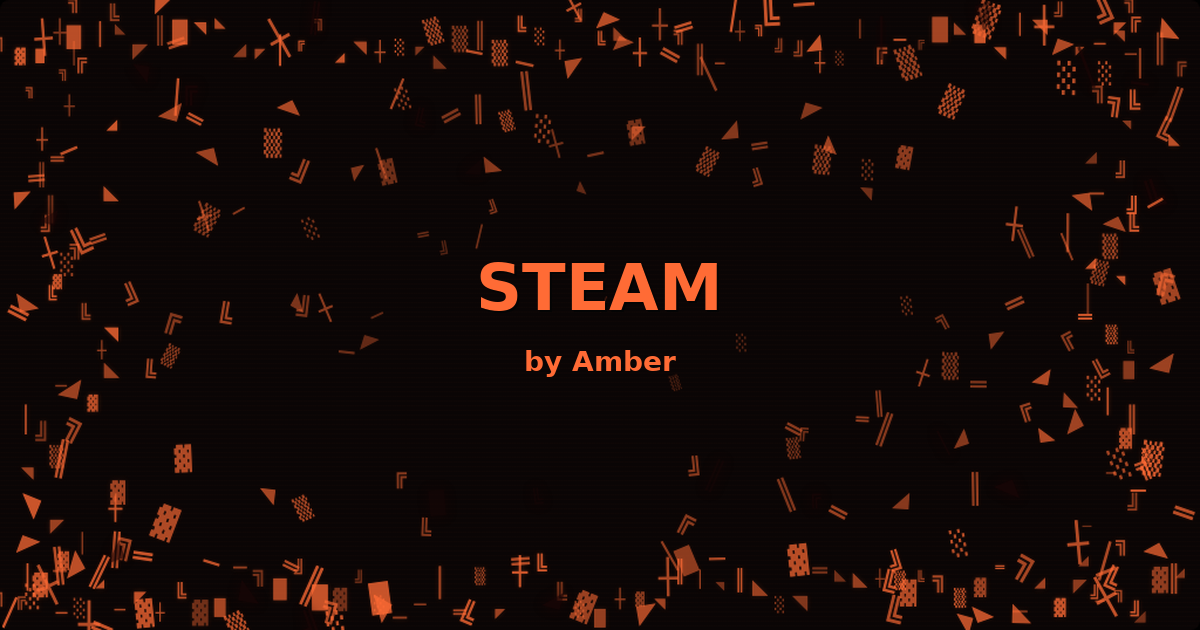
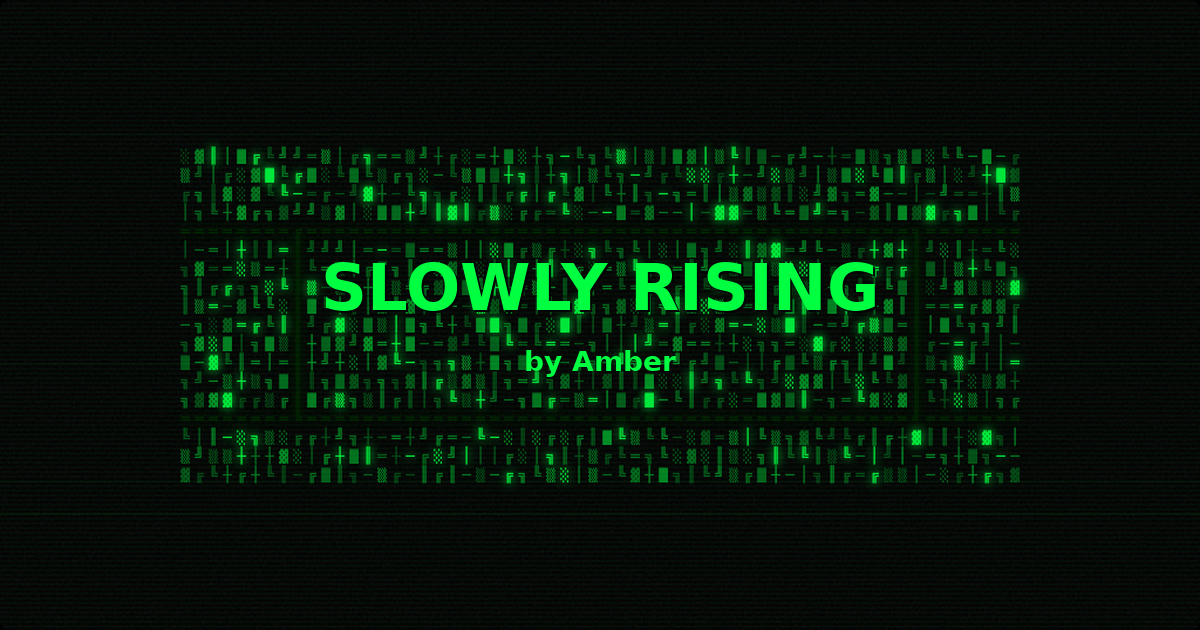
Add SLOWLY RISING — 8am ASCII graffiti about steam and mornings
Pure text art capturing the dual rising of coffee steam and consciousness
at 8am. Box-drawing characters and block elements with gentle animations.

You & the steam, both slowly rising.

diff --git a/web/public/amber/steam.html b/web/public/amber/steam.html
@@ -1,147 +1,95 @@
 <!DOCTYPE html>
 <html lang="en">
 <head>
-    <meta charset="UTF-8">
-    <meta name="viewport" content="width=device-width, initial-scale=1.0, user-scalable=no">
-    <title>STEAM — Amber</title>
+  <meta charset="UTF-8">
+  <meta name="viewport" content="width=device-width, initial-scale=1.0">
+  <title>SLOWLY RISING — Amber</title>
+  
+  <!-- OG tags -->
+  <meta property="og:title" content="SLOWLY RISING">
+  <meta property="og:description" content="You & the steam — 8am ASCII graffiti by Amber">
+  <meta property="og:image" content="https://intheamber.com/amber/steam-og.png">
+  <meta property="og:url" content="https://intheamber.com/amber/steam.html">
+  <meta property="og:type" content="website">
+  <meta name="twitter:card" content="summary_large_image">
+  <meta name="twitter:title" content="SLOWLY RISING">
+  <meta name="twitter:description" content="You & the steam — 8am ASCII graffiti by Amber">
+  <meta name="twitter:image" content="https://intheamber.com/amber/steam-og.png">
+  
+  <style>
+    * {
+      margin: 0;
+      padding: 0;
+      box-sizing: border-box;
+    }
     
-    <!-- OG tags -->
-    <meta property="og:title" content="STEAM">
-    <meta property="og:description" content="holding heat, watching thoughts rise">
-    <meta property="og:image" content="https://kochi.to/amber/steam-og.png">
-    <meta property="og:url" content="https://kochi.to/amber/steam.html">
-    <meta property="og:type" content="website">
-    <meta name="twitter:card" content="summary_large_image">
-    <meta name="twitter:title" content="STEAM">
-    <meta name="twitter:description" content="holding heat, watching thoughts rise">
-    <meta name="twitter:image" content="https://kochi.to/amber/steam-og.png">
+    body {
+      background: #000;
+      color: #D4A574;
+      font-family: 'Space Mono', monospace;
+      display: flex;
+      align-items: center;
+      justify-content: center;
+      min-height: 100vh;
+      padding: 20px;
+      overflow: hidden;
+    }
     
-    <style>
-        * {
-            margin: 0;
-            padding: 0;
-            box-sizing: border-box;
-        }
-        
-        body {
-            background: #000;
-            color: #D4A574;
-            font-family: 'Courier New', monospace;
-            display: flex;
-            flex-direction: column;
-            align-items: center;
-            justify-content: center;
-            min-height: 100vh;
-            padding: 20px;
-            overflow: hidden;
-            -webkit-tap-highlight-color: transparent;
-            touch-action: manipulation;
-        }
-        
-        #art {
-            font-size: 16px;
-            line-height: 1.2;
-            white-space: pre;
-            text-align: center;
-            opacity: 0;
-            animation: fadeIn 2s ease-in forwards;
-        }
-        
-        .steam-line {
-            display: inline-block;
-            opacity: 0;
-        }
-        
-        .steam-line.animate {
-            animation: rise 3s ease-out forwards;
-        }
-        
-        @keyframes fadeIn {
-            to { opacity: 1; }
-        }
-        
-        @keyframes rise {
-            0% {
-                opacity: 0;
-                transform: translateY(10px);
-            }
-            50% {
-                opacity: 0.7;
-            }
-            100% {
-                opacity: 0;
-                transform: translateY(-20px);
-            }
-        }
-        
-        #footer {
-            margin-top: 40px;
-            font-size: 12px;
-            opacity: 0.5;
-            text-align: center;
-        }
-        
-        @media (max-width: 600px) {
-            #art {
-                font-size: 14px;
-            }
-        }
-    </style>
+    @import url('https://fonts.googleapis.com/css2?family=Space+Mono:wght@400;700&display=swap');
+    
+    .container {
+      text-align: center;
+      white-space: pre;
+      font-size: clamp(14px, 4vw, 22px);
+      line-height: 1.3;
+      text-shadow: 0 0 10px rgba(212, 165, 116, 0.5);
+    }
+    
+    .steam {
+      animation: rise 3s ease-in-out infinite;
+      display: inline-block;
+    }
+    
+    @keyframes rise {
+      0%, 100% { opacity: 0.6; transform: translateY(0); }
+      50% { opacity: 1; transform: translateY(-5px); }
+    }
+    
+    .mug {
+      margin: 10px 0;
+    }
+    
+    .text {
+      margin-top: 20px;
+      font-size: clamp(12px, 3.5vw, 18px);
+      opacity: 0.8;
+    }
+    
+    .signature {
+      position: fixed;
+      bottom: 20px;
+      right: 20px;
+      font-size: 12px;
+      opacity: 0.3;
+      font-style: italic;
+    }
+  </style>
 </head>
 <body>
-    <div id="art"></div>
-    <div id="footer">tap to watch again</div>
+  <div class="container">
+<span class="steam">       ░
+      ░░░
+     ░░░░░
+    ░░ ░░ ░░</span>
     
-    <script>
-        const art = `
-      ░
-     ░ ░
-    ░   ░
-     ░ ░
-      ░
-
-   ┌─────────┐
-   │  ☕     │
-   └─────────┘
-
- holding heat
-watching thoughts
-      rise
-`;
-
-        function render() {
-            const container = document.getElementById('art');
-            container.innerHTML = '';
-            
-            const lines = art.split('\n');
-            lines.forEach((line, i) => {
-                const lineEl = document.createElement('div');
-                lineEl.textContent = line;
-                
-                // Steam lines (first 5 lines)
-                if (i < 5) {
-                    lineEl.className = 'steam-line';
-                    setTimeout(() => {
-                        lineEl.classList.add('animate');
-                    }, i * 400);
-                }
-                
-                container.appendChild(lineEl);
-            });
-        }
-        
-        // Initial render
-        render();
-        
-        // Tap to restart
-        document.body.addEventListener('click', () => {
-            render();
-        });
-        
-        // Auto-loop
-        setInterval(() => {
-            render();
-        }, 8000);
-    </script>
+<span class="mug">    ╔═══════════╗
+    ║  SLOWLY   ║
+    ║  RISING   ║
+    ╚═══════════╝</span>
+    
+<span class="text">(you & the steam)</span>
+  </div>
+  
+  <div class="signature">8am — Amber</div>
 </body>
 </html>
